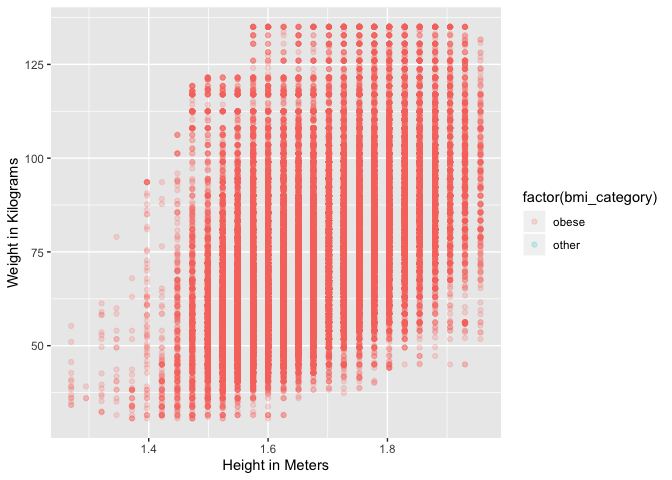
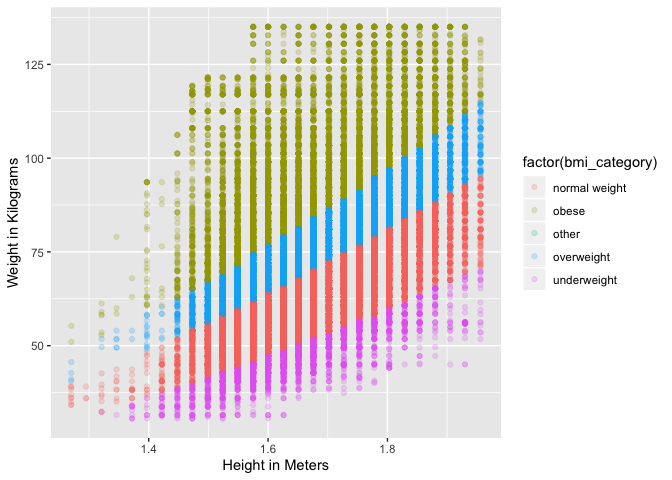
important notice updates and fixing bmi chart

diff --git a/r_intro.md b/r_intro.md
@@ -205,7 +205,9 @@ Packages we will need to for this tutorial:
 4. `haven`
 5. `read_excel`
 
-## IMPORTANT NOTE
+## IMPORTANT NOTES
+
+### Important Note 1 
 
 You cannot have `install.packages()` in a code chunk.  If you have something htat looks like this...
 
@@ -220,6 +222,77 @@ Error in contrib.url(repos, "source") : trying to use CRAN without setting a mir
 ```
 
 You only need to `install.packages` once. I recommend doing it in the console. Once you have done that you can use `library()` to load your packges at the top of the RMardown file. 
+
+## Important Note 2
+
+It's a good idea to put all of the libraries you need in a code chunk at the begining of your RMarkdown file. That will allow you run the code without getting errors indicating the library is not loaded. For this assignment the code chunk would look something like this: 
+
+```{}
+library(tidyverse)
+library(car)
+library(haven)
+library(readxl)
+```
+
+
+```r
+library(tidyverse)
+```
+
+```
+## Registered S3 method overwritten by 'rvest':
+##   method            from
+##   read_xml.response xml2
+```
+
+```
+## ── Attaching packages ───────────────────────────────────────────────────────────────────── tidyverse 1.2.1 ──
+```
+
+```
+## ✔ ggplot2 3.2.0       ✔ purrr   0.3.2  
+## ✔ tibble  2.1.1       ✔ dplyr   0.8.0.1
+## ✔ tidyr   0.8.3       ✔ stringr 1.4.0  
+## ✔ readr   1.3.1       ✔ forcats 0.4.0
+```
+
+```
+## ── Conflicts ──────────────────────────────────────────────────────────────────────── tidyverse_conflicts() ──
+## ✖ dplyr::filter() masks stats::filter()
+## ✖ dplyr::lag()    masks stats::lag()
+```
+
+```r
+library(car)
+```
+
+```
+## Loading required package: carData
+```
+
+```
+## 
+## Attaching package: 'car'
+```
+
+```
+## The following object is masked from 'package:dplyr':
+## 
+##     recode
+```
+
+```
+## The following object is masked from 'package:purrr':
+## 
+##     some
+```
+
+```r
+library(haven)
+library(readxl)
+```
+
+You will get a bunch of messages that say the packages have been installed that is normal. 
 
 ## Data Frames
 
@@ -240,27 +313,28 @@ Package | Code  | Action
 ------------- | ------------- | -------------
 haven | read.sav  | SPSS data
 foreign | read.dta | Stata data
-read_excel | readxl | Excel data
+readxl | read_excel | Excel data
 
 You can read many file formats using the `haven` package. 
 
 ### Example of `read.csv`
 
-```r
-cchs <- read.csv("/Users/dfuller/Dropbox/Teaching/MUN/HKR 6130/2017/HKR6130_MUN/data/cchs.csv")
-## Remember to change your file path
-```
+2. [Click here to download the data](https://www.dropbox.com/s/4wbbu4248aamp0x/cchs.csv?dl=0). The file is called `cchs.csv`. 
 
-### Example of `read_sav`
+### Remember to change your file path
+
 
 ```r
-library(haven)
-
-cchs_spss <- read_sav("/Users/dfuller/Dropbox/Teaching/MUN/HKR 6130/2017/HKR6130_MUN/data/cchs.sav")
-## Remember to change your file path
+cchs <- read_csv("/Users/dfuller/Dropbox/Teaching/MUN/HKR 6130/2017/HKR6130_MUN/data/cchs.csv")
 ```
 
 ### Example of `readxl`
+
+2. [Click here to download the data](https://www.dropbox.com/s/k35knz29kavkyw9/cchs.xlsx?dl=0). The file is called `cchs.xlsx`. 
+
+### Remember to change your file path
+
+
 
 ```r
 library(readxl)
@@ -292,13 +366,15 @@ head(cchs)
 ```
 
 ```
+## # A tibble: 6 x 5
 ##   CASEID  verdate geogprv hwtghtm hwtgwtk
-## 1      1 20130913      35   1.575   65.25
-## 2      2 20130913      59   1.905   99.00
-## 3      3 20130913      35   1.803   77.40
-## 4      4 20130913      46   1.727   85.50
-## 5      5 20130913      24   1.803   81.00
-## 6      6 20130913      48   1.727   78.75
+##    <dbl>    <dbl>   <dbl>   <dbl>   <dbl>
+## 1      1 20130913      35    1.58    65.2
+## 2      2 20130913      59    1.90    99  
+## 3      3 20130913      35    1.80    77.4
+## 4      4 20130913      46    1.73    85.5
+## 5      5 20130913      24    1.80    81  
+## 6      6 20130913      48    1.73    78.8
 ```
 
 We can also use `tibble` to get a quick view of the data frame
@@ -311,7 +387,7 @@ tbl_df(cchs)
 ```
 ## # A tibble: 124,929 x 5
 ##    CASEID  verdate geogprv hwtghtm hwtgwtk
-##     <int>    <int>   <int>   <dbl>   <dbl>
+##     <dbl>    <dbl>   <dbl>   <dbl>   <dbl>
 ##  1      1 20130913      35    1.58    65.2
 ##  2      2 20130913      59    1.90    99  
 ##  3      3 20130913      35    1.80    77.4
@@ -416,17 +492,19 @@ head(cchs, n = 10)
 ```
 
 ```
+## # A tibble: 10 x 6
 ##    CASEID  verdate geogprv hwtghtm hwtgwtk height
-## 1       1 20130913      35   1.575   65.25  1.575
-## 2       2 20130913      59   1.905   99.00  1.905
-## 3       3 20130913      35   1.803   77.40  1.803
-## 4       4 20130913      46   1.727   85.50  1.727
-## 5       5 20130913      24   1.803   81.00  1.803
-## 6       6 20130913      48   1.727   78.75  1.727
-## 7       7 20130913      12   1.626   62.10  1.626
-## 8       8 20130913      48   9.999  999.99     NA
-## 9       9 20130913      35   1.905  105.75  1.905
-## 10     10 20130913      59   1.854   85.50  1.854
+##     <dbl>    <dbl>   <dbl>   <dbl>   <dbl>  <dbl>
+##  1      1 20130913      35    1.58    65.2   1.58
+##  2      2 20130913      59    1.90    99     1.90
+##  3      3 20130913      35    1.80    77.4   1.80
+##  4      4 20130913      46    1.73    85.5   1.73
+##  5      5 20130913      24    1.80    81     1.80
+##  6      6 20130913      48    1.73    78.8   1.73
+##  7      7 20130913      12    1.63    62.1   1.63
+##  8      8 20130913      48   10.00  1000.   NA   
+##  9      9 20130913      35    1.90   106.    1.90
+## 10     10 20130913      59    1.85    85.5   1.85
 ```
 
 Now we know we are going to need to clean the weight variable and we are going to want to calculate BMI, BMI category, and give some meaning names to the provinces. We can do that entire process in one chunk of code using the same logic we had before. 
@@ -444,10 +522,10 @@ The mutate method works particularly well when you are using numeric variables. 
 ```r
 cchs <- cchs %>%
 	mutate(bmi_category = case_when(
-		weight < 18.5 ~ "underweight",
-		weight >=30 & weight <999 ~ "obese",
-		weight >=25 & weight <30 ~ "overweight",
-		weight >=18.5 & weight <25 ~ "normal weight",
+		bmi < 18.5 ~ "underweight",
+		bmi >=30 & bmi <99 ~ "obese",
+		bmi >=25 & bmi <30 ~ "overweight",
+		bmi >=18.5 & bmi <25 ~ "normal weight",
 		TRUE ~ "other"
 	))
 
@@ -624,13 +702,15 @@ head(join_full_nl)
 ```
 
 ```
+## # A tibble: 6 x 3
 ##   CASEID weight height
-## 1     23  87.75  1.753
-## 2     70  67.50  1.575
-## 3     71 134.10  1.854
-## 4     91  78.75  1.829
-## 5     99  74.25  1.753
-## 6    117  77.85  1.702
+##    <dbl>  <dbl>  <dbl>
+## 1     23   87.8   1.75
+## 2     70   67.5   1.58
+## 3     71  134.    1.85
+## 4     91   78.8   1.83
+## 5     99   74.2   1.75
+## 6    117   77.8   1.70
 ```
 
 The most important thing with the join is to ensure that you understand what data are coming from where. This example is straightforward. Let's complicate things a little by removing some rows from the height data and making some values of CASEID missing in the weight data. 
@@ -663,13 +743,15 @@ head(join_inner_nl)
 ```
 
 ```
+## # A tibble: 6 x 3
 ##   CASEID weight height
-## 1    117  77.85  1.702
-## 2    129  67.50  1.651
-## 3    162 108.90  1.626
-## 4    270  81.00  1.626
-## 5    346  90.00  1.803
-## 6    386 103.50  1.727
+##    <dbl>  <dbl>  <dbl>
+## 1    117   77.8   1.70
+## 2    129   67.5   1.65
+## 3    162  109.    1.63
+## 4    270   81     1.63
+## 5    346   90     1.80
+## 6    386  104.    1.73
 ```
 
 ```r
